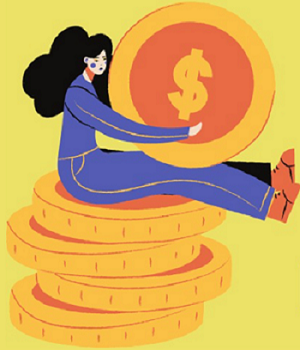
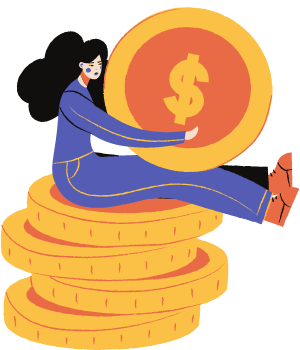
Home page videos removed and images changed

diff --git a/src/components/views/WorkWithUsPage/WorkWithUs.js b/src/components/views/WorkWithUsPage/WorkWithUs.js
@@ -7,7 +7,7 @@ import './WorkWithUs.css'
 import { Link } from 'react-router-dom'
 
 
-import workwithus2 from '../../../assets/images/work_with_us_2.jpeg'
+import workwithus2 from '../../../assets/images/work_with_us_2.png'
 
 import iconAppStore from '../../../assets/images/ic_appstore.png'
 import iconGoogleStore from '../../../assets/images/ic_googlestore.png'
@@ -180,7 +180,7 @@ export class WorkWithUs extends React.Component {
                     <div id="wwu-content">
                         <h2>Fully guided process</h2>
                         <p id="wwu-text">
-                            A representative will guide you on how to start building your store, & share tips on how to customize it.
+                            A representative will guide you on building your store, & share tips for customization.
                         </p>
                     </div>
                 </div>
@@ -226,7 +226,7 @@ export class WorkWithUs extends React.Component {
                         <Link
                             to={{
                                 pathname:
-                                    'https://apps.apple.com/in/app/tolindo-driver/id1520192940',
+                                    'https://apps.apple.com/in/app/tolindo/id1519808601',
                             }}
                             target="_blank"
                         >
@@ -235,7 +235,7 @@ export class WorkWithUs extends React.Component {
                         <Link
                             to={{
                                 pathname:
-                                    'https://play.google.com/store/apps/details?id=app.tolindo.driver',
+                                    'https://play.google.com/store/apps/details?id=app.tolindo.customer',
                             }}
                             target="_blank"
                         >

diff --git a/src/components/views/MainPage.js b/src/components/views/MainPage.js
@@ -157,7 +157,7 @@ export class MainPage extends React.Component {
                 <MainSubscribeNewsLetter />
                 <MainArea />
                 <MainSlideImages />
-                <MainVideos />
+                {/* <MainVideos /> */}
                 <MainRecruit />
                 <MainFooter />
                 <SubscribePopup />
